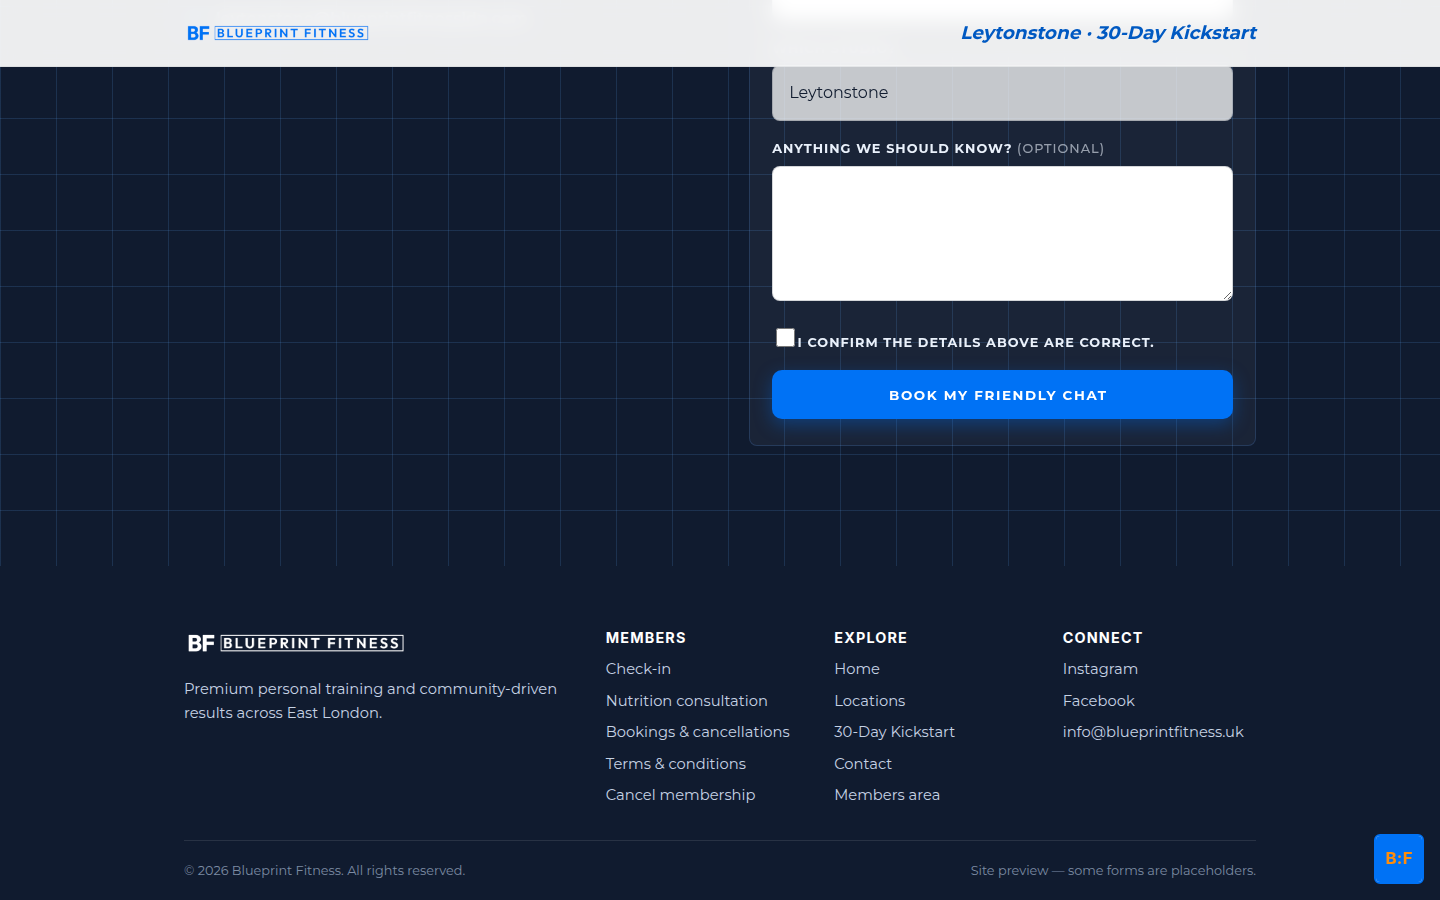
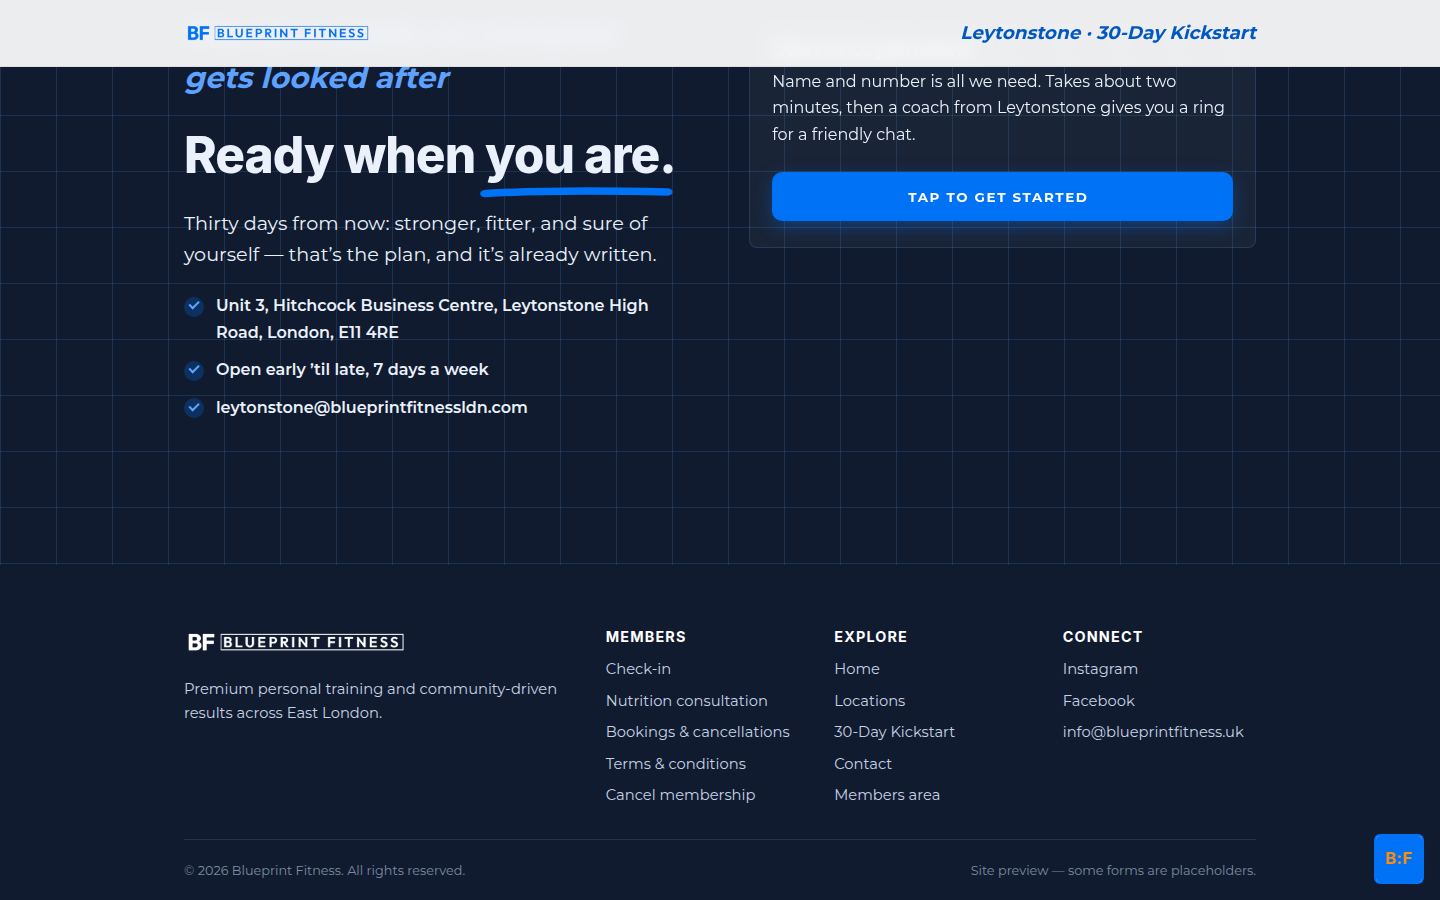
Put the enquiry form in a lightbox
The kickstart pages now lead with a compact CTA card and open the form in a
branded lightbox, matching the modals already used for the cancellation forms
and the member stories.

- EnquiryLightbox renders ONLY the overlay, into the layout's body-end slot.
  position:fixed is trapped by any ancestor with a transform and the motion kit
  transforms the cards and sections, so an overlay nested in the card was
  confined to that column instead of covering the viewport.
- Anything marked data-enquiry-trigger opens it through a delegated listener,
  so the hero CTAs and the register card share one code path. That replaces the
  bridge in main.js, which is now gone.
- The form still ships in the initial DOM rather than mounting on open. A form
  added on open is picked up too (the tracker re-scans on a MutationObserver,
  verified separately), but shipping it up front means the first scan finds it
  and capture never depends on observer timing.
- Without JavaScript the lightbox cannot open, so it stops being one: .no-js
  renders the panel inline, the dead trigger is dropped and the card shows a
  plain anchor down to it. The no-js -> js gate now flips in an inline script
  during parsing rather than on defer, so nothing scoped under .js flashes into
  view before main.js runs.
- Two styling fixes surfaced by the modal: `.field label` out-specified
  `.check-field`, so the confirm row had inherited the uppercase field-label
[…]

diff --git a/app/src/components/EnquiryLightbox.tsx b/app/src/components/EnquiryLightbox.tsx
@@ -1,0 +1,97 @@
+import { useCallback, useEffect, useRef, useState } from 'react';
+import EnquiryForm, { type StudioOption } from './EnquiryForm.tsx';
+
+interface Props {
+  studios: StudioOption[];
+  fixedStudio?: string;
+  successHref: string;
+  formId: string;
+  heading?: string;
+  intro?: string;
+  submitLabel?: string;
+}
+
+/* The enquiry form in a lightbox.
+
+   This renders the overlay ONLY - the button that opens it lives wherever the
+   page wants it, marked `data-enquiry-trigger`, and a delegated listener picks
+   up a click on any of them. That split is not cosmetic: `position: fixed` is
+   trapped by any ancestor with a transform, and the page's cards and sections
+   are transformed by the motion kit, so an overlay nested in the card is
+   confined to that column instead of covering the viewport. Rendering it into
+   the layout's `body-end` slot keeps it a direct child of <body>.
+
+   The form ships in the initial DOM rather than being mounted on open. Either
+   way HighLevel's tracking script finds it (it re-scans on a MutationObserver,
+   verified), but shipping it up front means the first scan picks it up and
+   capture never depends on observer timing.
+
+   Without JavaScript the lightbox cannot open, so it stops being a lightbox:
+   `.no-js` styling renders the panel inline and the page swaps the dead trigger
+   for a plain anchor down to it. */
+export default function EnquiryLightbox(form: Props) {
+  const [open, setOpen] = useState(false);
+  const [shown, setShown] = useState(false);      // drives the fade/slide
+  const overlay = useRef<HTMLDivElement>(null);
+  const lastFocus = useRef<HTMLElement | null>(null);
+
+  const close = useCallback(() => {
+    setShown(false);
+    window.setTimeout(() => setOpen(false), 250);
+    document.body.classList.remove('modal-open');
+    lastFocus.current?.focus();
+  }, []);
+
+  const show = useCallback(() => {
+    lastFocus.current = document.activeElement as HTMLElement;
+    setOpen(true);
+    document.body.classList.add('modal-open');
+    window.requestAnimationFrame(() => setShown(true));
+    window.setTimeout(() => {
+      /* preventScroll: focusing the first field would otherwise scroll the
+         modal's own overflow container and hide the heading above it */
+      overlay.current?.querySelector<HTMLInputElement>('input, select')?.focus({ preventScroll: true });
+    }, 200);
+  }, []);
+
+  /* any button on the page marked data-enquiry-trigger opens it, delegated so
+     it also covers triggers added later (the hero CTA, wired in main.js) */
+  useEffect(() => {
+    const onClick = (e: MouseEvent) => {
+      const t = (e.target as Element | null)?.closest?.('[data-enquiry-trigger]');
+      if (!t) return;
+      e.preventDefault();
+      show();
+    };
+    const onKey = (e: KeyboardEvent) => { if (e.key === 'Escape' && open) close(); };
+    document.addEventListener('click', onClick);
+    document.addEventListener('keydown', onKey);
+    return () => {
+      document.removeEventListener('click', onClick);
+      document.removeEventListener('keydown', onKey);
+    };
+  }, [open, show, close]);
+
+  /* keep focus inside the dialog while it is open */
+  const onKeyDown = (e: React.KeyboardEvent) => {
+    if (e.key !== 'Tab' || !overlay.current) return;
+    const items = overlay.current.querySelectorAll<HTMLElement>(
+      'button, [href], input, select, textarea, [tabindex]:not([tabindex="-1"])');
+    if (!items.length) return;
+    const first = items[0];
+    const last = items[items.length - 1];
+    if (e.shiftKey && document.activeElement === first) { e.preventDefault(); last.focus(); }
+    else if (!e.shiftKey && document.activeElement === last) { e.preventDefault(); first.focus(); }
+  };
+
+  return (
+    <div id="enquiry" ref={overlay} className={`signup-overlay${shown ? ' show' : ''}`} hidden={!open}
+         onClick={(e) => { if (e.target === overlay.current) close(); }}
+         onKeyDown={onKeyDown}>
+      <div className="signup-modal" role="dialog" aria-modal="true" aria-label={form.heading ?? 'Enquiry form'}>
+        <button type="button" className="signup-close" aria-label="Close" onClick={close}>&times;</button>
+        <EnquiryForm {...form} />
+      </div>
+    </div>
+  );
+}

diff --git a/app/public/js/main.js b/app/public/js/main.js
@@ -266,13 +266,13 @@
 
   /* ---------- the sign-up funnel ----------
      The old placeholder sign-up lightbox has been retired. Every kickstart
-     page now carries the real enquiry form (the React island), and that is
-     the only form we want in the document: HighLevel's tracking script binds
-     to EVERY form on the page, so a second, unidentified sign-up form would
-     post empty submissions into the CRM. "Tap to get started" scrolls to the
-     real form and focuses it. (site/ and import-pack/ still ship the original
-     lightbox - they are the untouched static build.) */
-  var realForm = document.querySelector('form[id^="blueprint-"]');
+     page now carries the real enquiry form (the React island) inside its own
+     lightbox, and that is the only form we want in the document: HighLevel's
+     tracking script binds to EVERY form on the page, so a second, unidentified
+     sign-up form would post empty submissions into the CRM. Any other button
+     that opens the funnel does it by clicking the island's trigger, so there
+     is one way in and one way out. (site/ and import-pack/ still ship the
+     original lightbox - they are the untouched static build.) */
 
   /* ---------- member stories: video lightbox ----------
      Cards ([data-vt]) open a minimal player over the page; portrait
@@ -408,18 +408,10 @@
     });
   }
 
-  /* every button that says "Tap to get started" (the kickstart page) opens it.
+  /* "Tap to get started" buttons carry data-enquiry-trigger in the markup and
+     are opened by the lightbox island's own delegated listener - nothing to do
+     here. Without JavaScript they stay plain anchors to #register.
      "Try us for 30 days" buttons elsewhere navigate to the kickstart page. */
-  document.querySelectorAll('a.btn, button.btn').forEach(function (b) {
-    if (realForm && b.textContent.trim().toLowerCase() === 'tap to get started') {
-      b.addEventListener('click', function (e) {
-        e.preventDefault();
-        realForm.scrollIntoView({ behavior: reduced ? 'auto' : 'smooth', block: 'center' });
-        var target = realForm.querySelector('input');
-        setTimeout(function () { if (target) target.focus(); }, reduced ? 0 : 520);
-      });
-    }
-  });
 
   /* ---------- forms: inline validation + branded success ----------
      Placeholder only — nothing is sent anywhere. */

diff --git a/app/src/styles/main.css b/app/src/styles/main.css
@@ -1068,7 +1068,7 @@ body.menu-locked .site-header .btn-primary{visibility:hidden}
 .signup-overlay.show .signup-modal{transform:none}
 .signup-modal .form-note{display:inline-block;margin-right:2.8rem}
 .signup-modal .field .err{color:#FF9B9B}
-.signup-modal .annotation{color:#EAF1FB;margin:0 0 .3rem}
+.signup-modal .annotation{color:#5EA2FF;margin:0 0 .15rem;font-size:1.05rem}
 .signup-modal .h-3{margin:0 0 .5rem}
 .signup-intro{color:#EAF1FB;font-size:.95rem;margin:0 0 1.4rem}
 .signup-fine{color:#5EA2FF;font-size:.8rem;margin:1rem 0 0}
@@ -1083,6 +1083,20 @@ body.modal-open{overflow:hidden}
 @media (prefers-reduced-motion:reduce){
   .signup-overlay,.signup-modal{transition:none}
 }
+
+/* Without JavaScript the lightbox cannot open, so it stops being a lightbox:
+   the trigger is dropped and the panel renders inline where it sits. Same
+   convention as the rest of the motion kit - nothing stays hidden when the
+   script does not run. */
+.no-js .enquiry-trigger{display:none}
+.js .enquiry-fallback{display:none}
+.no-js .signup-overlay,
+.no-js .signup-overlay[hidden]{
+  position:static;display:block;padding:0;opacity:1;z-index:auto;
+  background:none;-webkit-backdrop-filter:none;backdrop-filter:none;
+}
+.no-js .signup-modal{width:100%;max-height:none;overflow:visible;transform:none}
+.no-js .signup-close{display:none}
 
 @media (prefers-reduced-motion:reduce){
   .co svg ellipse{stroke-dashoffset:0!important;animation:none!important}
@@ -1392,7 +1406,10 @@ body.no-js .draft-u{
 .check-field{display:flex;gap:.65rem;align-items:flex-start;cursor:pointer;
   font-weight:600;font-size:.92rem;color:var(--grey);
   text-transform:none;letter-spacing:0}
-.on-dark .check-field,.on-dark .card .check-field{color:#EAF1FB}
+.on-dark .check-field,.on-dark .card .check-field,.signup-modal .check-field{color:#EAF1FB}
+/* `.field label` (0,1,1) out-specifies `.check-field` (0,1,0), so the confirm
+   row inherited the uppercase field-label treatment - win it back explicitly */
+.field label.check-field{font-weight:600;font-size:.92rem;text-transform:none;letter-spacing:0}
 .check-field input{flex:none;width:1.15rem;height:1.15rem;margin-top:.1rem;accent-color:var(--blue)}
 
 /* cancel-page studio buttons */

diff --git a/app/README.md b/app/README.md
@@ -78,7 +78,19 @@ Two consequences worth knowing:
 - **One form per tracked page.** The tracker binds to every form in the
   document, so the old placeholder sign-up lightbox was removed from
   `public/js/main.js` — it would have posted empty, unidentified submissions.
-  "Tap to get started" now scrolls to the real form.
+
+The enquiry form is presented in a lightbox (`EnquiryLightbox.tsx`). Two things
+about how it is wired are load-bearing:
+
+- **The overlay is rendered into the layout's `body-end` slot, not the card.**
+  `position: fixed` is trapped by any ancestor with a transform, and the motion
+  kit transforms the cards and sections — nested in the card, the overlay is
+  confined to that column instead of covering the viewport.
+- **The component renders only the overlay.** Anything marked
+  `data-enquiry-trigger` opens it through a delegated listener, so the hero CTAs
+  and the register card share one code path. Without JavaScript those stay plain
+  anchors to `#register`, `.no-js` styling renders the panel inline, and the card
+  swaps its dead button for an anchor down to `#enquiry`.
 
 In HighLevel, Form Analytics and Form Submissions both have to be enabled in
 Settings for these to sync to contacts. The tracker also fires on a submit that
